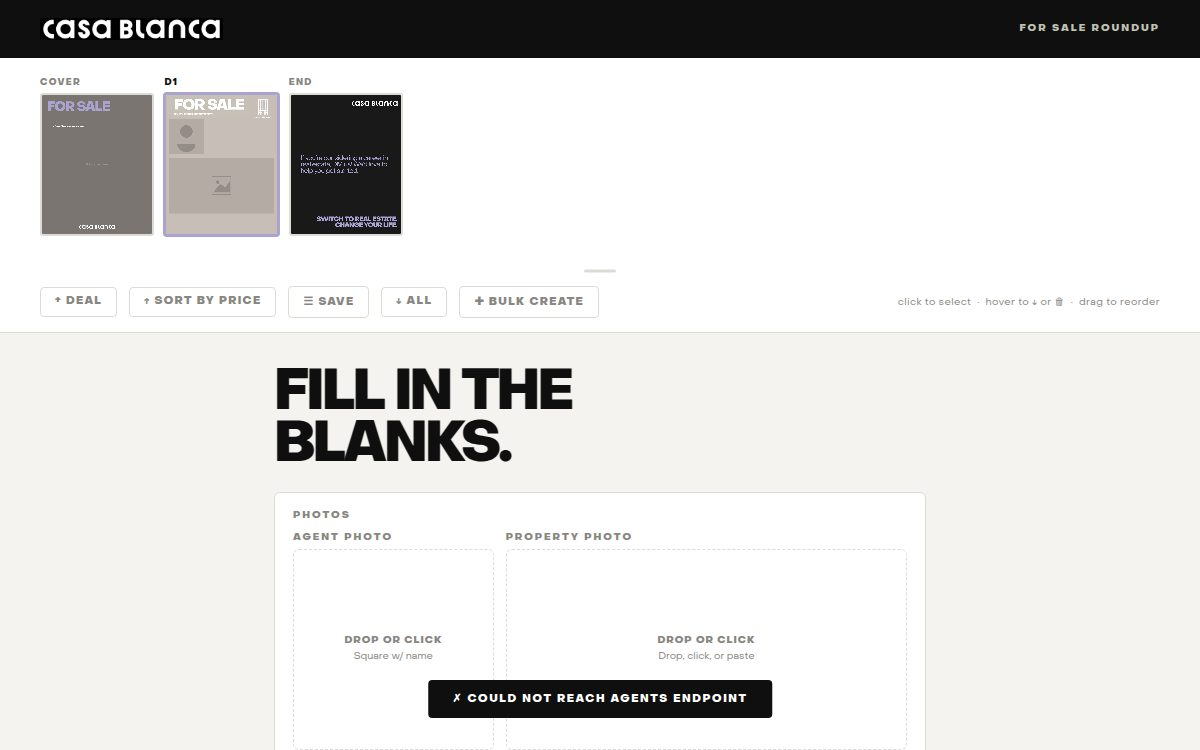
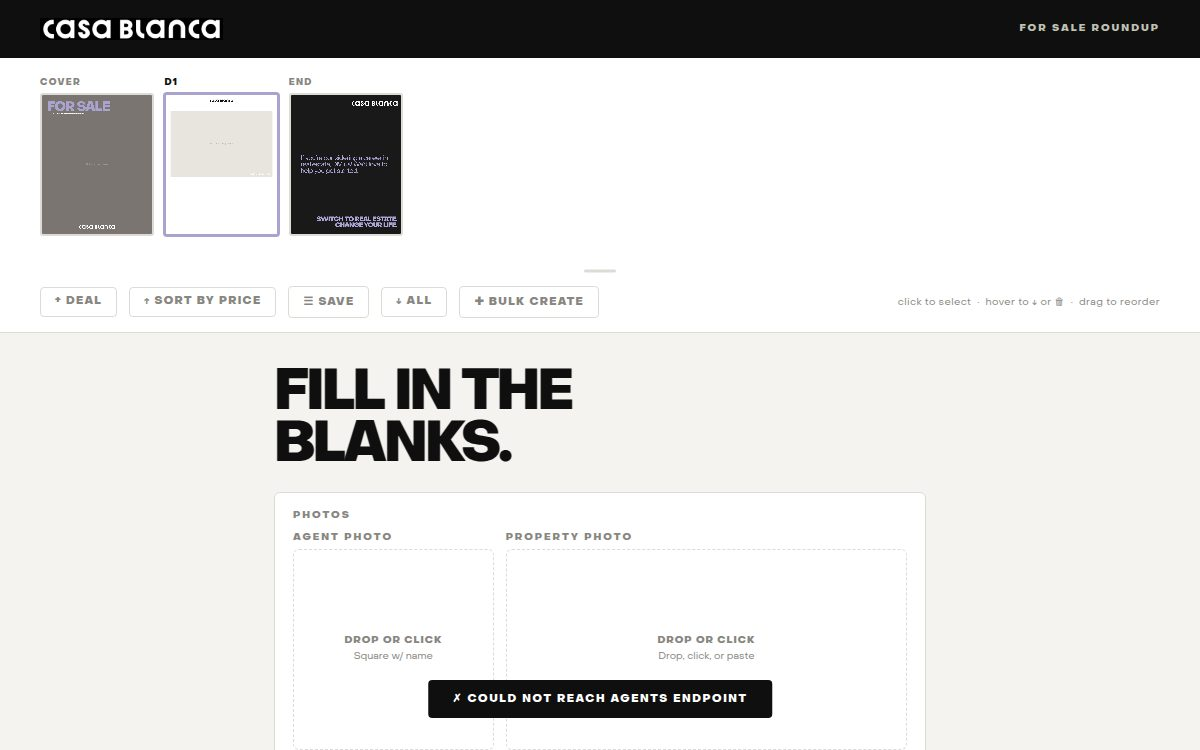
feat(forsale): redesign per-listing deal cards to match reference
Rebuilt the For Sale Roundup deal slide from scratch (white background, was the
inherited Closed taupe template):
- "casa blanca" wordmark top-center (new getWMB → black glyphs from getWMT base)
- Post title repeated in accent, centered, shrink-to-fit up to 2 lines
- Address (left) + price · beds/baths (right), bold black
- Full-width property photo with white "casa blanca" watermark bottom-right
- Justified description beneath the photo
- "AGENT: NAME" at the bottom (name in accent)

New fields:
- Global post title (S.postTitle) — shows on every listing slide; editable in Deal Info
- Per-deal beds/baths (deal.bedsBaths) — e.g. "Studio, 1 BA"
- Both included in auto-save / session serialize + restore

Also seeds assets/agents/ (accent/ + taupe/ + README) as the in-repo drop spot
for agent headshots.

Verified headless: deal slide matches the reference layout; wordmark renders
black on white; tool boots clean with the new form fields.

Claude-Session: https://claude.ai/code/session_01M38mQA8FoZjdVm7UWhHYcM

Changed region(s): [[0.1233, 0.1227, 0.2467, 0.3373]]

diff --git a/tools/forsale-carousel/index.html b/tools/forsale-carousel/index.html
@@ -470,6 +470,10 @@ input[type=color]::-webkit-color-swatch{border:none;border-radius:50%;}
       <div class="lbl">Deal Info</div>
       <div class="ig">
         <div class="igrp ig-full">
+          <label for="i-posttitle">Post title <span style="font-weight:400;color:var(--mid);font-size:9px;text-transform:none;letter-spacing:0;">— shows on every listing slide</span></label>
+          <input type="text" id="i-posttitle" placeholder="3 Upper East Side Apartments ~$400K">
+        </div>
+        <div class="igrp ig-full">
           <label for="i-se-url">StreetEasy URL <span style="font-weight:400;color:var(--mid);font-size:9px;text-transform:none;letter-spacing:0;">— paste to auto-fill below</span></label>
           <div style="display:flex;gap:6px;">
             <input type="text" id="i-se-url" placeholder="https://streeteasy.com/building/..." style="flex:1;">
@@ -484,9 +488,13 @@ input[type=color]::-webkit-color-swatch{border:none;border-radius:50%;}
           <label for="i-nbr">Neighborhood</label>
           <input type="text" id="i-nbr" placeholder="TRIBECA">
         </div>
-        <div class="igrp ig-full">
+        <div class="igrp">
           <label for="i-price">Price</label>
           <input type="text" id="i-price" placeholder="1.5M">
+        </div>
+        <div class="igrp">
+          <label for="i-beds">Beds / Baths</label>
+          <input type="text" id="i-beds" placeholder="Studio, 1 BA">
         </div>
         <div class="igrp ig-full">
           <label for="i-desc">Listing Description</label>
@@ -680,7 +688,7 @@ function makeDeal() {
   return {
     agentImg:null, agentSrc:'', agentName:'',
     propImg:null,  propSrc:'', propOX:0, propOY:0, propScale:1,
-    address:'', neighborhood:'', price:'', description:''
+    address:'', neighborhood:'', price:'', bedsBaths:'', description:''
   };
 }
 
@@ -688,6 +696,7 @@ const S = {
   accent:    '#aaa3cf',
   coverImg:  null, coverSrc:'',
   coverOX:0, coverOY:0, coverScale:1, coverSourceIdx:1,
+  postTitle: '',
   deals:     [makeDeal()],
 };
 let activeIdx = 1; // 0=cover, 1..N=deals, N+1=end
@@ -886,6 +895,8 @@ function syncForm() {
   document.getElementById('i-nbr').value   = d.neighborhood;
   document.getElementById('i-price').value = d.price;
   document.getElementById('i-desc').value  = d.description;
+  document.getElementById('i-beds').value  = d.bedsBaths||'';
+  document.getElementById('i-posttitle').value = S.postTitle||'';
   updateCharCount();
   syncDZ('dz-agent','th-agent', d.agentSrc);
   // Property: always clear first (fixes stale manip view when switching slides)
@@ -1045,93 +1056,97 @@ const T = {
   ADDR_X:395,ADDR_Y:372,ADDR_LH:67,ADDR_MAX_W:656,
   DESC_SZ:31,DESC_LH:31,DESC_TRACK:-1.56,
 };
+function getWMB(){
+  if (getWMB._c) return getWMB._c;
+  const base=getWMT(); if(!base) return null;           // white glyphs on transparent
+  const oc=document.createElement('canvas'); oc.width=base.width; oc.height=base.height;
+  const c=oc.getContext('2d'); c.drawImage(base,0,0);
+  const id=c.getImageData(0,0,oc.width,oc.height), d=id.data;
+  for (let i=0;i<d.length;i+=4){ if (d[i+3]>10){ d[i]=15; d[i+1]=15; d[i+2]=15; } }  // → black glyphs
+  c.putImageData(id,0,0); getWMB._c=oc; return oc;
+}
 function drawDeal(cv, deal) {
   const ctx=cv.getContext('2d');
-  if (tmplImg.complete&&tmplImg.naturalWidth) ctx.drawImage(tmplImg,0,0,W,H);
-  else { ctx.fillStyle='#c7c0b7';ctx.fillRect(0,0,W,H); }
-  // Retarget the baked "CLOSED" + subtitle on the deal template to "FOR SALE"
-  // (For Sale roundup fork; logo+icon top-right are left untouched.)
-  ctx.save();
-  ctx.fillStyle = '#c7c0b7';
-  ctx.fillRect(0, 0, 800, 220);
-  try{ctx.letterSpacing='-0.05em';}catch(e){}
-  ctx.fillStyle = '#ffffff'; ctx.textBaseline='alphabetic'; ctx.textAlign='left';
-  let sz = 150; ctx.font = f(800, sz);
-  const TXT = 'FOR SALE', MAXW = 680;
-  if (ctx.measureText(TXT).width > MAXW) {
-    sz = Math.floor(sz * MAXW / ctx.measureText(TXT).width);
-    ctx.font = f(800, sz);
-  }
-  ctx.fillText(TXT, 80, 30 + sz * 0.78);
-  try{ctx.letterSpacing='0px';}catch(e){}
-  ctx.font = f(800, 26);
-  ctx.fillText('a Casa Blanca announcement.', 80, 190);
-  ctx.restore();
-  // Agent photo — or gray placeholder
-  if (deal.agentImg) {
-    ctx.save();ctx.beginPath();ctx.rect(T.AGX,T.AGY,T.AGW,T.AGH);ctx.clip();
-    cropFit(ctx,deal.agentImg,T.AGX,T.AGY,T.AGW,T.AGH);
-    ctx.restore();
-  } else {
-    ctx.fillStyle='rgba(0,0,0,0.10)';
-    ctx.fillRect(T.AGX,T.AGY,T.AGW,T.AGH);
-    // Person icon hint
-    ctx.fillStyle='rgba(0,0,0,0.18)';
-    const cx=T.AGX+T.AGW/2, headR=T.AGW*0.18;
-    ctx.beginPath();ctx.arc(cx,T.AGY+T.AGH*0.35,headR,0,Math.PI*2);ctx.fill();
-    ctx.beginPath();
-    ctx.ellipse(cx,T.AGY+T.AGH*0.72,T.AGW*0.26,T.AGH*0.22,0,Math.PI,0,true);
-    ctx.fill();
-  }
-  // Property photo — or gray placeholder
-  if (deal.propImg) {
-    ctx.save();ctx.beginPath();ctx.rect(T.PPX,T.PPY,T.PPW,T.PPH);ctx.clip();
-    cropFit(ctx,deal.propImg,T.PPX,T.PPY,T.PPW,T.PPH,deal.propOX,deal.propOY,deal.propScale);
-    ctx.restore();
-  } else {
-    ctx.fillStyle='rgba(0,0,0,0.10)';
-    ctx.fillRect(T.PPX,T.PPY,T.PPW,T.PPH);
-    // Landscape icon hint
-    ctx.fillStyle='rgba(0,0,0,0.18)';
-    const mX=T.PPX+T.PPW/2, mY=T.PPY+T.PPH/2;
-    const iW=T.PPW*0.18, iH=T.PPH*0.32;
-    ctx.strokeStyle='rgba(0,0,0,0.18)'; ctx.lineWidth=6;
-    ctx.strokeRect(mX-iW/2, mY-iH/2, iW, iH);
-    // Mountain shape inside
-    ctx.beginPath();
-    ctx.moveTo(mX-iW*0.45, mY+iH*0.38);
-    ctx.lineTo(mX-iW*0.05, mY-iH*0.1);
-    ctx.lineTo(mX+iW*0.2,  mY+iH*0.1);
-    ctx.lineTo(mX+iW*0.45, mY-iH*0.25);
-    ctx.lineTo(mX+iW*0.45, mY+iH*0.38);
-    ctx.closePath(); ctx.fill();
-    // Sun dot
-    ctx.beginPath();
-    ctx.arc(mX-iW*0.2, mY-iH*0.2, iH*0.1, 0, Math.PI*2);
-    ctx.fill();
-  }
-  // Append comma to address at render time — field stays clean
-  const addrDisplay = deal.address ? deal.address.trimEnd().replace(/,+$/, '') + ',' : '';
-  const priceDisplay = deal.price ? (deal.price.trim().startsWith('$') ? deal.price : '$' + deal.price) : '';
-  const lines=[addrDisplay,deal.neighborhood,priceDisplay].map(s=>(s||'').toUpperCase()).filter(Boolean);
-  if (lines.length) {
-    let sz=68;ctx.font=f(800,sz);
-    const widest=Math.max(...lines.map(l=>ctx.measureText(l).width));
-    if (widest>T.ADDR_MAX_W) sz=Math.floor(sz*T.ADDR_MAX_W/widest);
-    sz=Math.max(sz,28);
-    ctx.font=f(800,sz);ctx.fillStyle='#fff';ctx.textBaseline='alphabetic';ctx.letterSpacing=(sz*-0.05)+'px';
-    const addrLH=sz*(67/68);
-    lines.forEach((l,i)=>ctx.fillText(l,T.ADDR_X,T.ADDR_Y+i*addrLH));
+  const M=44, RX=W-M;
+  ctx.fillStyle='#ffffff'; ctx.fillRect(0,0,W,H);
+  ctx.textAlign='left'; ctx.textBaseline='top';
+
+  // top wordmark (black, centered)
+  const wmb=getWMB();
+  if (wmb){ const wh=28, ww=wmb.width*(wh/wmb.height); ctx.drawImage(wmb,(W-ww)/2,42,ww,wh); }
+
+  // post title (accent, centered, up to 2 lines, shrink to fit)
+  let y=92;
+  const post=(S.postTitle||'').trim().toUpperCase();
+  if (post){
+    ctx.fillStyle=S.accent; ctx.textAlign='center';
+    let ptsz=40; const maxW=W-2*M;
+    ctx.font=f(800,ptsz); let lines=wrap(ctx,post,maxW);
+    while (lines.length>2 && ptsz>26){ ptsz-=2; ctx.font=f(800,ptsz); lines=wrap(ctx,post,maxW); }
+    ctx.letterSpacing=(ptsz*-0.02)+'px';
+    const ptlh=ptsz*1.03;
+    lines.slice(0,2).forEach((l,i)=>ctx.fillText(l,W/2,y+i*ptlh));
+    y += Math.min(lines.length,2)*ptlh;
     ctx.letterSpacing='0px';
   }
-  if (deal.description.trim()) {
-    ctx.font=f(400,T.DESC_SZ);ctx.fillStyle='#fff';ctx.textBaseline='top';ctx.letterSpacing=T.DESC_TRACK+'px';
-    const dl=wrap(ctx,deal.description.trim(),T.DW);
-    const maxL=Math.floor(T.DH/T.DESC_LH);
+  ctx.textAlign='left';
+  const headTop = y + 30;
+
+  // RIGHT: price + beds/baths
+  ctx.fillStyle='#0f0f0f'; ctx.textAlign='right';
+  const priceDisp = deal.price ? (deal.price.trim().startsWith('$')?deal.price:'$'+deal.price) : '';
+  const prsz=56; ctx.font=f(800,prsz); ctx.letterSpacing=(prsz*-0.04)+'px';
+  if (priceDisp) ctx.fillText(priceDisp.toUpperCase(), RX, headTop);
+  ctx.letterSpacing='0px';
+  const bb=(deal.bedsBaths||'').trim();
+  const bbsz=33; ctx.font=f(800,bbsz);
+  if (bb) ctx.fillText(bb, RX, headTop + (priceDisp?prsz*1.04:0));
+
+  // LEFT: address + neighborhood (shrink to fit, leave room for the price block)
+  ctx.textAlign='left';
+  const addrDisp = deal.address ? deal.address.trimEnd().replace(/,+$/,'')+',' : '';
+  const addrLines=[addrDisp, deal.neighborhood].map(x=>(x||'').toUpperCase()).filter(Boolean);
+  let asz=52; ctx.font=f(800,asz);
+  const aMaxW = (priceDisp||bb) ? 600 : (W-2*M);
+  let widest=Math.max(0,...addrLines.map(l=>ctx.measureText(l).width));
+  if (widest>aMaxW){ asz=Math.floor(asz*aMaxW/widest); ctx.font=f(800,asz); }
+  const alh=asz*1.0;
+  ctx.letterSpacing=(asz*-0.04)+'px'; ctx.fillStyle='#0f0f0f';
+  addrLines.forEach((l,i)=>ctx.fillText(l, M, headTop + i*alh));
+  ctx.letterSpacing='0px';
+
+  // photo
+  const leftH = addrLines.length*alh;
+  const rightH = (priceDisp?prsz*1.04:0) + (bb?bbsz:0);
+  const PY = headTop + Math.max(leftH, rightH) + 30;
+  const PX=M, PW=W-2*M, PH=Math.max(360, Math.min(640, 1180 - PY));
+  ctx.fillStyle='#e8e4de'; ctx.fillRect(PX,PY,PW,PH);
+  if (deal.propImg){ ctx.save(); ctx.beginPath(); ctx.rect(PX,PY,PW,PH); ctx.clip(); cropFit(ctx,deal.propImg,PX,PY,PW,PH,deal.propOX,deal.propOY,deal.propScale); ctx.restore(); }
+  else { ctx.fillStyle='rgba(0,0,0,.22)'; ctx.textAlign='center'; ctx.textBaseline='middle'; ctx.font=f(400,20); ctx.fillText('Drop a property photo', W/2, PY+PH/2); ctx.textAlign='left'; ctx.textBaseline='top'; }
+  const wmw=getWMT()||wmImg;
+  if (wmw){ const wh=24, ww=wmw.width*(wh/wmw.height); ctx.globalAlpha=.95; ctx.drawImage(wmw, PX+PW-ww-18, PY+PH-wh-16, ww, wh); ctx.globalAlpha=1; }
+
+  // description (justified black) below photo
+  const dy = PY+PH+26;
+  if (deal.description.trim()){
+    const dsz=30, dlh=37;
+    ctx.font=f(400,dsz); ctx.fillStyle='#0f0f0f'; ctx.textBaseline='top'; ctx.letterSpacing='-0.2px';
+    const dl=wrap(ctx,deal.description.trim(),PW);
+    const maxL=Math.max(1, Math.floor((H-96-dy)/dlh));
     const vis=dl.slice(0,maxL);
-    vis.forEach((l,i)=>justified(ctx,l,T.DX,T.DY+i*T.DESC_LH,T.DW,i===vis.length-1));
-    ctx.textBaseline='alphabetic';ctx.letterSpacing='0px';
+    vis.forEach((l,i)=>justified(ctx,l,M,dy+i*dlh,PW,i===vis.length-1));
+    ctx.letterSpacing='0px';
   }
+
+  // AGENT line
+  ctx.textBaseline='alphabetic'; ctx.textAlign='left';
+  if (deal.agentName.trim()){
+    const ay=H-58, agsz=29; ctx.font=f(800,agsz);
+    ctx.fillStyle='#888680'; ctx.fillText('AGENT: ', M, ay);
+    const lw=ctx.measureText('AGENT: ').width;
+    ctx.fillStyle=S.accent; ctx.fillText(deal.agentName.toUpperCase(), M+lw, ay);
+  }
+  ctx.textBaseline='top';
 }
 
 // ═══════════════════════════════════════════════════
@@ -1813,13 +1828,14 @@ setupDZ('dz-cover','f-cover','th-cover',(img,src)=>{
 // ═══════════════════════════════════════════════════
 // TEXT INPUTS
 // ═══════════════════════════════════════════════════
-[['i-addr','address'],['i-nbr','neighborhood'],['i-price','price'],['i-desc','description']].forEach(([id,key])=>{
+[['i-addr','address'],['i-nbr','neighborhood'],['i-price','price'],['i-beds','bedsBaths'],['i-desc','description']].forEach(([id,key])=>{
   document.getElementById(id).addEventListener('input',function(){
     const d=activeDeal(); if(!d) return;
     d[key]=this.value; renderCanvas(activeIdx);
     if (key==='description') updateCharCount();
   });
 });
+document.getElementById('i-posttitle').addEventListener('input',function(){ S.postTitle=this.value; renderAll(); });
 function updateCharCount(){
   const n=document.getElementById('i-desc').value.length;
   const el=document.getElementById('char-cnt');
@@ -1925,12 +1941,12 @@ function serializeSession() {
   return {
     savedAt: new Date().toISOString(),
     date: new Date().toLocaleDateString('en-US',{month:'short',day:'numeric',year:'numeric'}),
-    accent: S.accent,
+    accent: S.accent, postTitle: S.postTitle||'',
     coverSrc: S.coverSrc||'', coverOX: S.coverOX, coverOY: S.coverOY, coverScale: S.coverScale, coverSourceIdx: S.coverSourceIdx,
     deals: S.deals.map(d => ({
       agentSrc: d.agentSrc||'', agentName: d.agentName||'',
       propSrc: d.propSrc||'', propOX: d.propOX, propOY: d.propOY, propScale: d.propScale,
-      address: d.address||'', neighborhood: d.neighborhood||'',
+      address: d.address||'', neighborhood: d.neighborhood||'', bedsBaths: d.bedsBaths||'',
       price: d.price||'', description: d.description||'',
     }))
   };
@@ -1963,6 +1979,7 @@ async function saveSession() {
 function applySession(s) {
   if (!s) return;
   S.accent = s.accent || '#aaa3cf';
+  S.postTitle = s.postTitle||'';
   S.coverSrc = s.coverSrc||''; S.coverOX = s.coverOX||0; S.coverOY = s.coverOY||0; S.coverScale = s.coverScale||1; S.coverSourceIdx = s.coverSourceIdx ?? 1;
   if (s.coverSrc) {
     const img = new Image();
@@ -1973,7 +1990,7 @@ function applySession(s) {
     const deal = makeDeal();
     deal.agentName=d.agentName||''; deal.address=d.address||'';
     deal.neighborhood=d.neighborhood||''; deal.price=d.price||'';
-    deal.description=d.description||'';
+    deal.bedsBaths=d.bedsBaths||''; deal.description=d.description||'';
     deal.agentSrc=d.agentSrc||''; deal.propSrc=d.propSrc||'';
     deal.propOX=d.propOX||0; deal.propOY=d.propOY||0; deal.propScale=d.propScale||1;
     if (d.agentSrc) { const img=new Image(); img.src=d.agentSrc; deal.agentImg=img; img.onload=()=>{ const i=S.deals.indexOf(deal)+1; renderCanvas(i); }; }
@@ -2116,7 +2133,7 @@ document.getElementById('btn-reset').addEventListener('click', async ()=>{
   activeIdx=1;
   document.getElementById('cust-sw').value='#aaa3cf';
   document.querySelectorAll('.sw').forEach((s,i)=>s.classList.toggle('on',i===0));
-  ['i-addr','i-nbr','i-price','i-desc'].forEach(id=>document.getElementById(id).value='');
+  ['i-addr','i-nbr','i-price','i-beds','i-desc'].forEach(id=>document.getElementById(id).value='');
   ['dz-cover','dz-agent','dz-prop'].forEach(id=>{
     const dz=document.getElementById(id);
     clearManipView(dz); // remove any manip overlay first

diff --git a/assets/agents/README.md b/assets/agents/README.md
@@ -1,0 +1,14 @@
+# Agent headshot library
+
+Drop individual agent headshot image files into this folder (GitHub → Add file →
+Upload files works one-or-many at a time, no local clone needed).
+
+**Naming:** `firstname-lastname.jpg` (lowercase, hyphens). Examples:
+`ashley-epstein.jpg`, `sam-valk.jpg`. PNG/JPG/WebP all fine.
+
+Two sets are coming:
+- `accent/`  — the existing accent-color background headshots (closed + for-sale per-listing use the name as text, end slide uses these)
+- `taupe/`   — the taupe-background set (editorial / for-sale end slide)
+
+For now just drop files at the top level or under `accent/` — I'll generate the
+`agents.json` manifest and wire the tools to read it (works on GitHub Pages, no backend).
